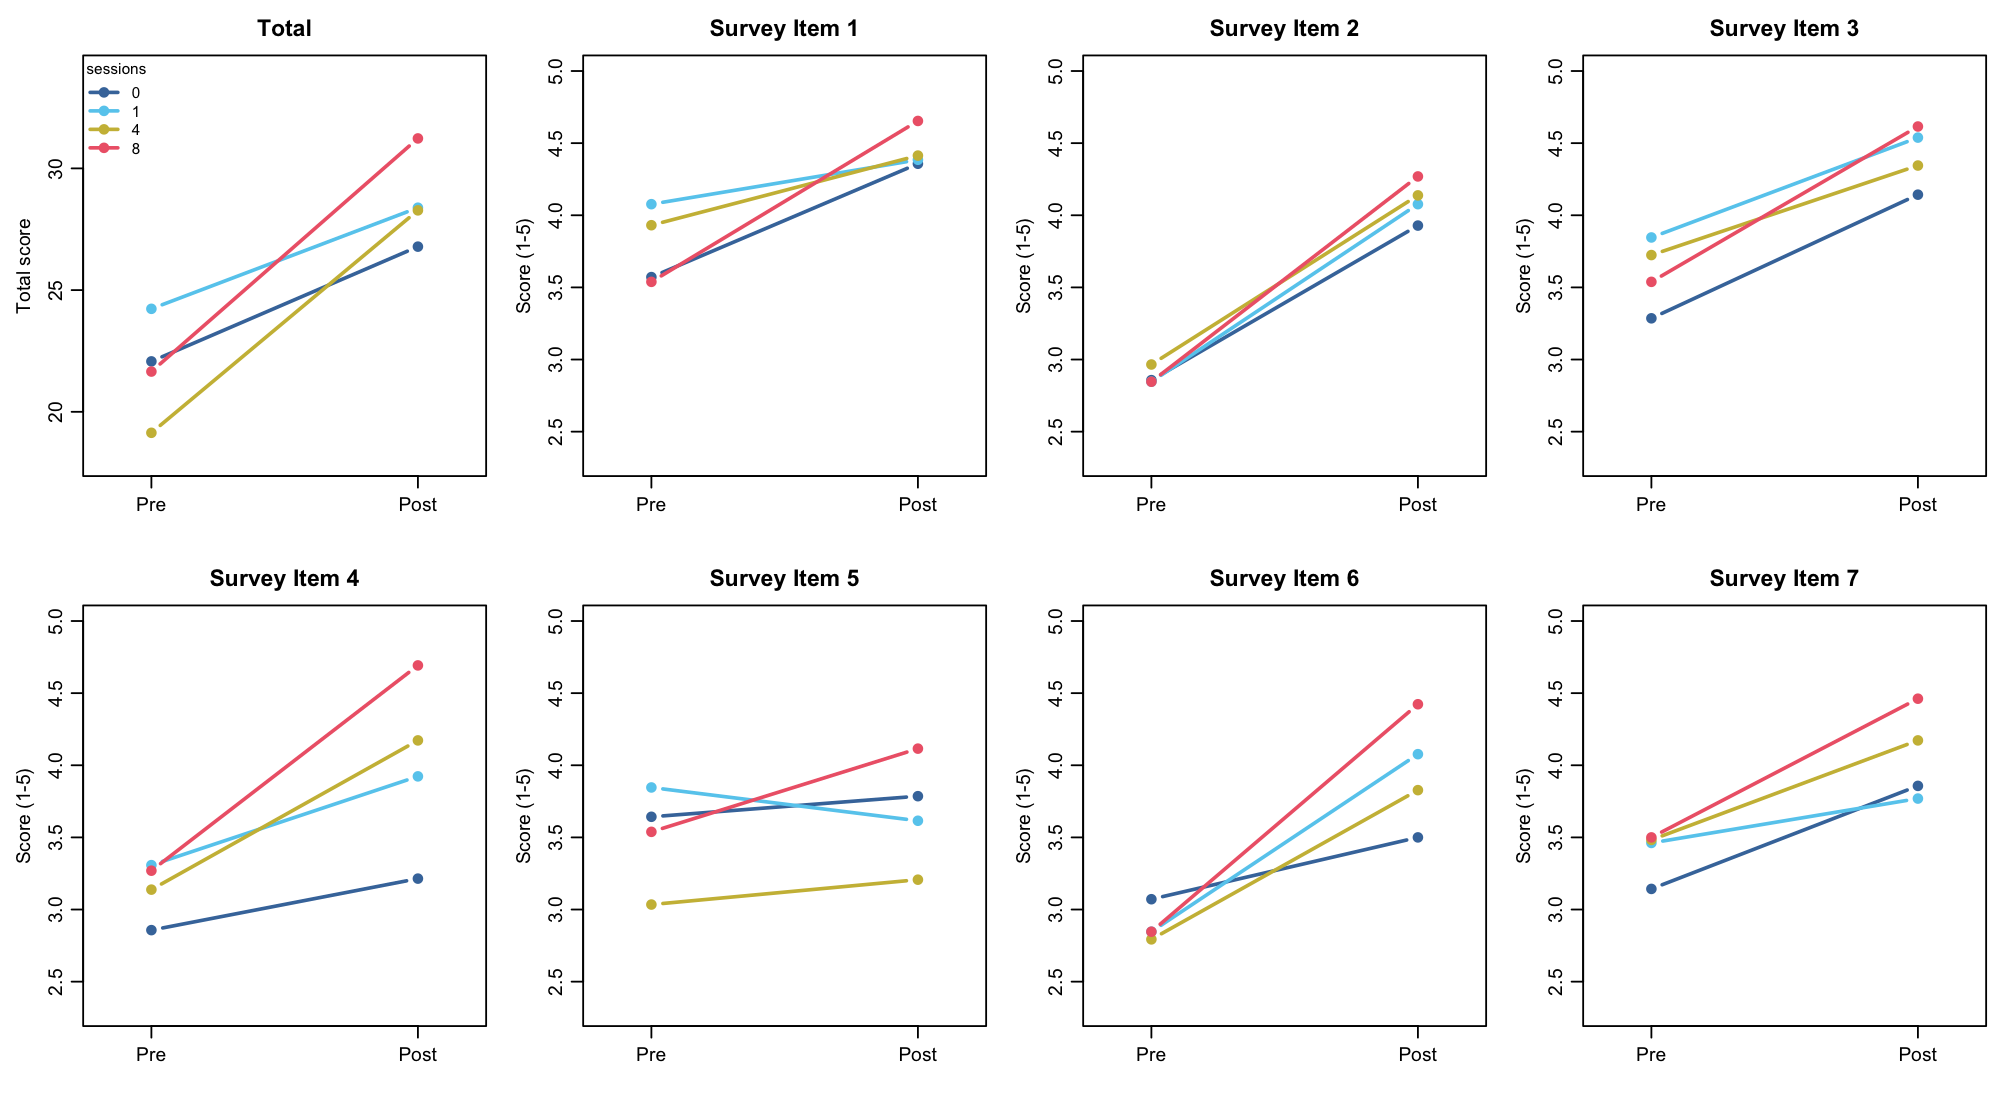
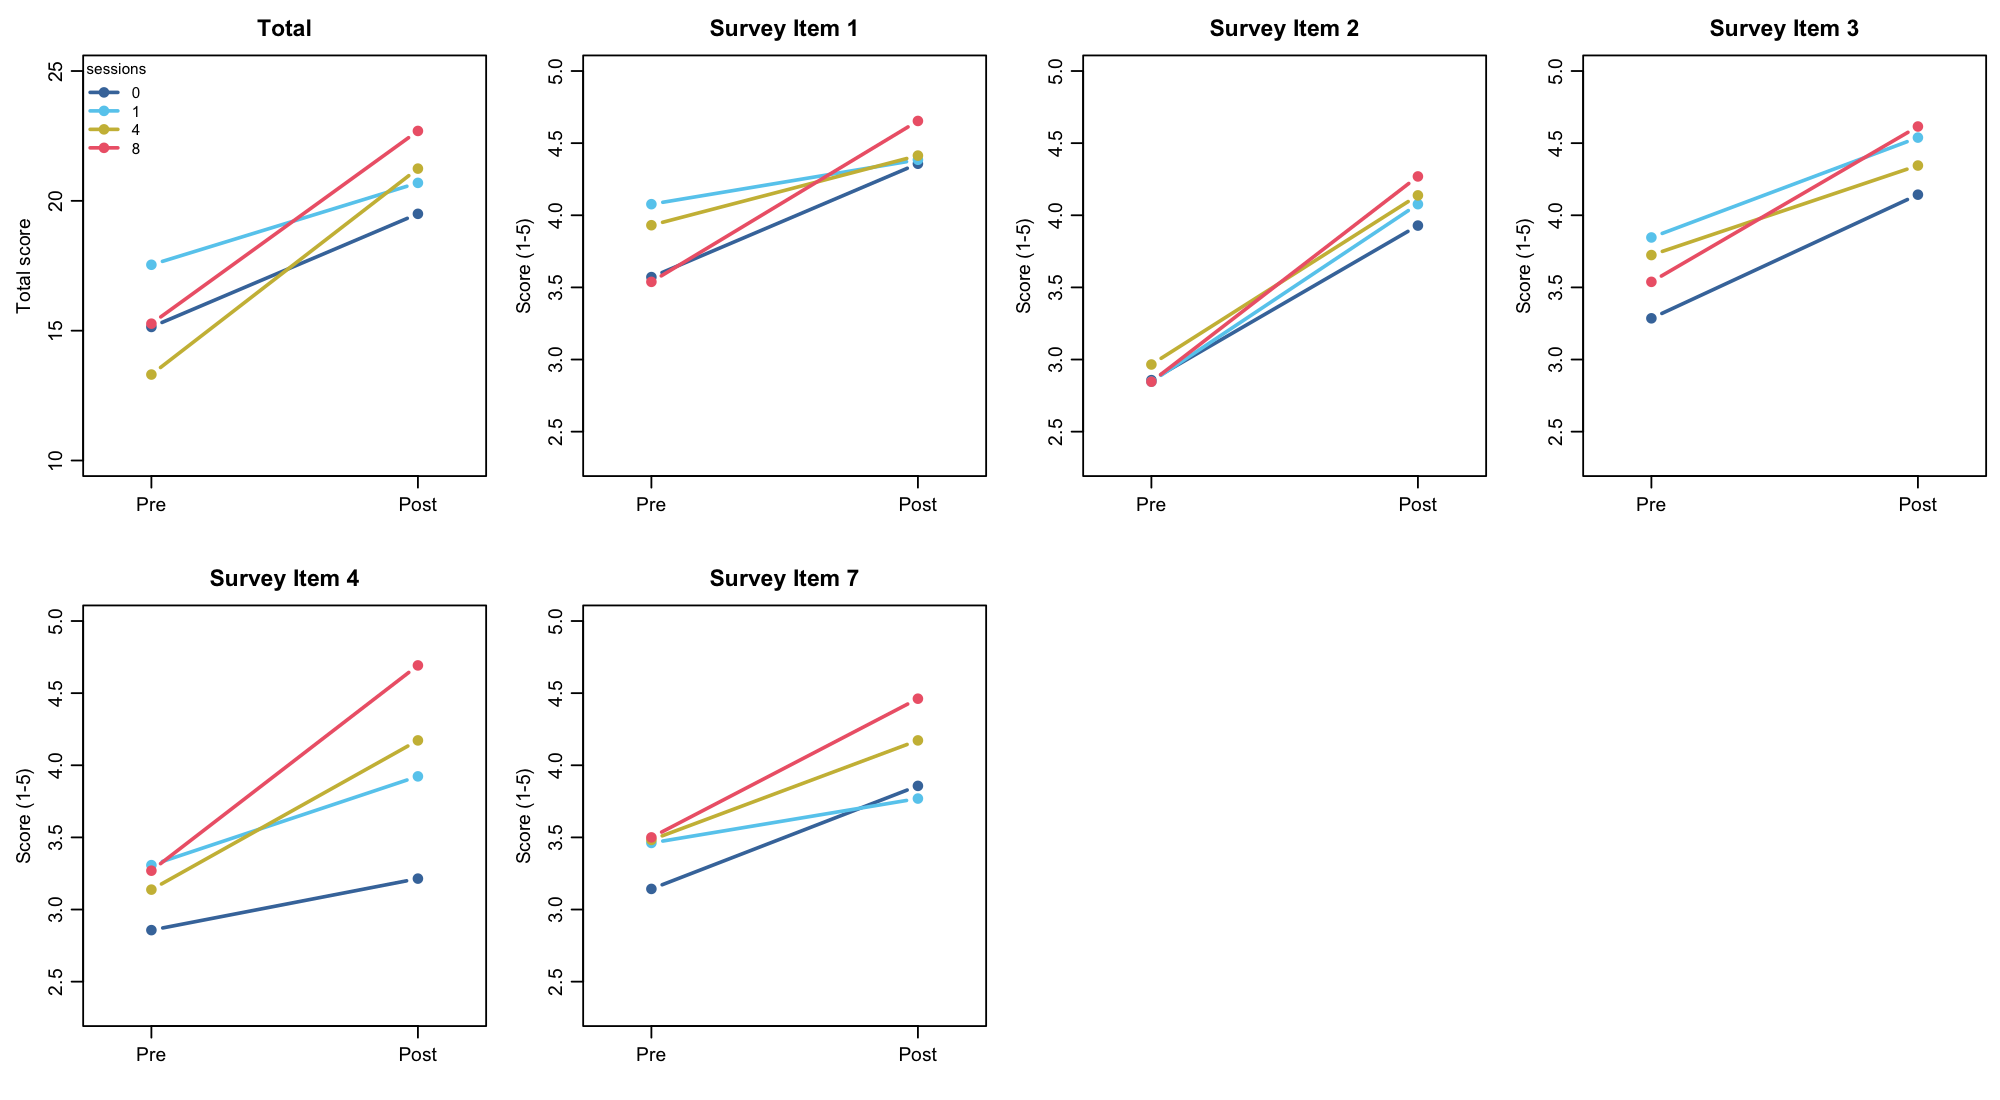
Adjust to remove questions 5 and 6

diff --git a/ANOVA/manuscript_methods_results.md b/ANOVA/manuscript_methods_results.md
@@ -4,80 +4,39 @@
 
 ### Statistical Analysis
 
-Reading-comprehension performance was analyzed with a 2 (Time: pre-session,
-post-session; within-subjects) × 4 (Session Group: 0, 1, 4, or 8 sessions;
-between-subjects) mixed-design analysis of variance (ANOVA). The primary analysis was
-conducted on the total comprehension score (range 7–35); parallel analyses were conducted
-on each of the seven individual survey items (Survey Items 1–7; range 1–5) to characterize
-item-level effects. Because the within-subjects factor (Time) comprised only two levels, the
-sphericity assumption was satisfied by definition, and no correction to the degrees of
-freedom was applied. Effect sizes are reported as generalized eta-squared (η²G), the
-recommended index for designs that combine within- and between-subjects factors.
+Reading-comprehension performance was analyzed with a 2 (Time: pre-session, post-session; within-subjects) × 4 (Session Group: 0, 1, 4, or 8 sessions; between-subjects) mixed-design analysis of variance (ANOVA). The primary analysis was conducted on the total comprehension score (range 7–35); parallel analyses were conducted on each of the seven individual survey items (Survey Items 1–7; range 1–5) to characterize item-level effects. Because the within-subjects factor (Time) comprised only two levels, the sphericity assumption was satisfied by definition, and no correction to the degrees of freedom was applied. Effect sizes are reported as generalized eta-squared (η²G), the recommended index for designs that combine within- and between-subjects factors.
 
-Significant Group × Time interactions were decomposed with two sets of follow-up tests.
-First, the simple effect of Time was examined within each session group using
-paired-samples t-tests, with Holm correction applied across the four groups. Second, the
-relationship between intervention dose and improvement was evaluated by testing the linear
-trend of pre-to-post gain (post − pre) across the ordered session counts, complemented by
-Tukey-HSD pairwise comparisons of the gain scores. Follow-up comparisons were computed on
-gain scores rather than post-session scores because the session groups differed at
-baseline (pre-session total score: F(3,78) = 4.70, p = .005); using change scores removes
-this baseline difference from the comparison. All analyses were conducted in R (version
-4.5.0), with α = .05.
+Significant Group × Time interactions were decomposed with two sets of follow-up tests. First, the simple effect of Time was examined within each session group using paired-samples t-tests, with Holm correction applied across the four groups. Second, the relationship between intervention dose and improvement was evaluated by testing the linear trend of pre-to-post gain (post − pre) across the ordered session counts, complemented by Tukey-HSD pairwise comparisons of the gain scores. Follow-up comparisons were computed on gain scores rather than post-session scores because the session groups differed at baseline (pre-session total score: F(3,78) = 4.70, p = .005); using change scores removes this baseline difference from the comparison. All analyses were conducted in R (version 4.5.0), with α = .05.
 
 ## Results
 
 ### Total Comprehension Score
 
-The mixed-design ANOVA revealed a large main effect of Time, F(1,78) = 249.85, p < .001,
-η²G = .518, reflecting an increase in comprehension scores from pre- to post-session across
-the sample. This effect was qualified by a significant Group × Time interaction,
-F(3,78) = 7.47, p < .001, η²G = .088, and accompanied by a main effect of Session Group,
-F(3,78) = 4.40, p = .007, η²G = .101. The interaction is displayed in Figure 1.
+The mixed-design ANOVA revealed a large main effect of Time, F(1,78) = 249.85, p \< .001, η²G = .518, reflecting an increase in comprehension scores from pre- to post-session across the sample. This effect was qualified by a significant Group × Time interaction, F(3,78) = 7.47, p \< .001, η²G = .088, and accompanied by a main effect of Session Group, F(3,78) = 4.40, p = .007, η²G = .101. The interaction is displayed in Figure 1.
 
-Follow-up tests localized the interaction. The simple effect of Time was significant within
-every session group (all Holm-corrected p < .01), indicating reliable pre-to-post
-improvement across conditions. The magnitude of that improvement, however, varied
-systematically with dose: mean total gains were 4.71, 4.15, 9.14, and 9.58 points for the
-0-, 1-, 4-, and 8-session groups, respectively. The linear trend was significant, with each
-additional session associated with a 0.66-point increase in total gain, t(80) = 4.02,
-p < .001 (Figure 2).
+Follow-up tests localized the interaction. The simple effect of Time was significant within every session group (all Holm-corrected p \< .01), indicating reliable pre-to-post improvement across conditions. The magnitude of that improvement, however, varied systematically with dose: mean total gains were 4.71, 4.15, 9.14, and 9.58 points for the 0-, 1-, 4-, and 8-session groups, respectively. The linear trend was significant, with each additional session associated with a 0.66-point increase in total gain, t(80) = 4.02, p \< .001 (Figure 2).
 
-Tukey-HSD comparisons of the gain scores clarified the form of this dose–response
-relationship. The 4- and 8-session groups each improved significantly more than the 0- and
-1-session groups (all p < .02), whereas neither the 0- versus 1-session contrast nor the
-4- versus 8-session contrast was significant. This pattern is consistent with a threshold
-effect: approximately four sessions were required to produce gains beyond those associated
-with no or minimal intervention, with little additional benefit from further sessions.
+Tukey-HSD comparisons of the gain scores clarified the form of this dose–response relationship. The 4- and 8-session groups each improved significantly more than the 0- and 1-session groups (all p \< .02), whereas neither the 0- versus 1-session contrast nor the 4- versus 8-session contrast was significant. This pattern is consistent with a threshold effect: approximately four sessions were required to produce gains beyond those associated with no or minimal intervention, with little additional benefit from further sessions.
 
 ### Item-Level Analyses
 
-The main effect of Time was significant for all seven items (all p < .05), indicating
-improvement on every component of the measure. The Group × Time interaction was significant
-for Survey Item 1, F(3,78) = 3.39, p = .022; Survey Item 4, F(3,78) = 3.84, p = .013; and
-Survey Item 6, F(3,78) = 2.82, p = .044; and non-significant for Survey Items 2, 3, 5, and
-7. The dose effect was most pronounced for Survey Item 4, for which gain increased by 0.13
-points per session (p = .001). Survey Item 5 showed reliable improvement only in the
-8-session group. Item-level interactions are shown in Figure 3, and full ANOVA results are
-reported in Table 1.
+The main effect of Time was significant for all seven items (all p \< .05), indicating improvement on every component of the measure. The Group × Time interaction was significant for Survey Item 1, F(3,78) = 3.39, p = .022; Survey Item 4, F(3,78) = 3.84, p = .013; and Survey Item 6, F(3,78) = 2.82, p = .044; and non-significant for Survey Items 2, 3, 5, and 7. The dose effect was most pronounced for Survey Item 4, for which gain increased by 0.13 points per session (p = .001). Survey Item 5 showed reliable improvement only in the 8-session group. Item-level interactions are shown in Figure 3, and full ANOVA results are reported in Table 1.
 
----
+------------------------------------------------------------------------
 
 **Table 1.** *Mixed-design ANOVA results for total and item-level comprehension scores.*
 
 | Outcome | Time *F*(1,78) | *p* | η²G | Group *F*(3,78) | *p* | η²G | Group × Time *F*(3,78) | *p* | η²G |
-|---|---|---|---|---|---|---|---|---|---|
-| Total | 249.85 | < .001 | .518 | 4.40 | .007 | .101 | 7.47 | < .001 | .088 |
-| Survey Item 1 | 52.44 | < .001 | .217 | 0.71 | .548 | .016 | 3.39 | .022 | .051 |
-| Survey Item 2 | 184.22 | < .001 | .454 | 0.35 | .789 | .009 | 0.68 | .568 | .009 |
-| Survey Item 3 | 65.53 | < .001 | .249 | 1.86 | .143 | .042 | 1.24 | .302 | .018 |
-| Survey Item 4 | 72.82 | < .001 | .302 | 8.78 | < .001 | .153 | 3.84 | .013 | .064 |
-| Survey Item 5 | 4.37 | .040 | .021 | 6.83 | < .001 | .139 | 2.02 | .118 | .029 |
-| Survey Item 6 | 71.51 | < .001 | .280 | 1.20 | .314 | .026 | 2.82 | .044 | .044 |
-| Survey Item 7 | 54.47 | < .001 | .215 | 2.84 | .043 | .062 | 1.61 | .195 | .024 |
+|----|----|----|----|----|----|----|----|----|----|
+| Total | 249.85 | \< .001 | .518 | 4.40 | .007 | .101 | 7.47 | \< .001 | .088 |
+| Survey Item 1 | 52.44 | \< .001 | .217 | 0.71 | .548 | .016 | 3.39 | .022 | .051 |
+| Survey Item 2 | 184.22 | \< .001 | .454 | 0.35 | .789 | .009 | 0.68 | .568 | .009 |
+| Survey Item 3 | 65.53 | \< .001 | .249 | 1.86 | .143 | .042 | 1.24 | .302 | .018 |
+| Survey Item 4 | 72.82 | \< .001 | .302 | 8.78 | \< .001 | .153 | 3.84 | .013 | .064 |
+| Survey Item 5 | 4.37 | .040 | .021 | 6.83 | \< .001 | .139 | 2.02 | .118 | .029 |
+| Survey Item 6 | 71.51 | \< .001 | .280 | 1.20 | .314 | .026 | 2.82 | .044 | .044 |
+| Survey Item 7 | 54.47 | \< .001 | .215 | 2.84 | .043 | .062 | 1.61 | .195 | .024 |
 
 *Note.* η²G = generalized eta-squared.
 
-**Figure 1.** Mean total comprehension score at pre- and post-session for each session group.
-**Figure 2.** Mean pre-to-post gain in total comprehension score as a function of number of sessions.
-**Figure 3.** Pre- to post-session change by session group for each individual survey item (Survey Items 1–7).
+**Figure 1.** Mean total comprehension score at pre- and post-session for each session group. **Figure 2.** Mean pre-to-post gain in total comprehension score as a function of number of sessions. **Figure 3.** Pre- to post-session change by session group for each individual survey item (Survey Items 1–7).
